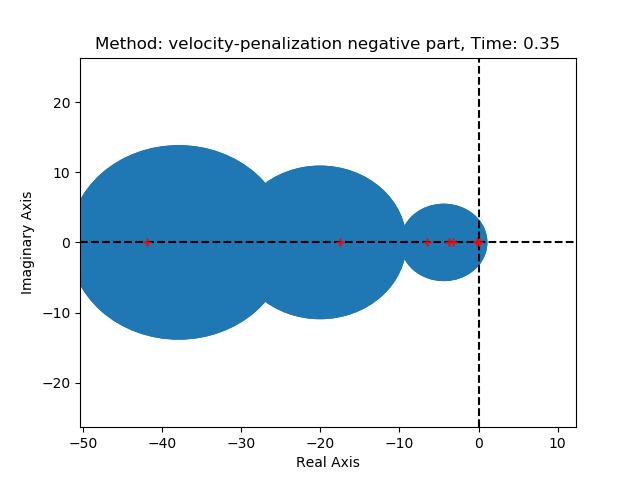
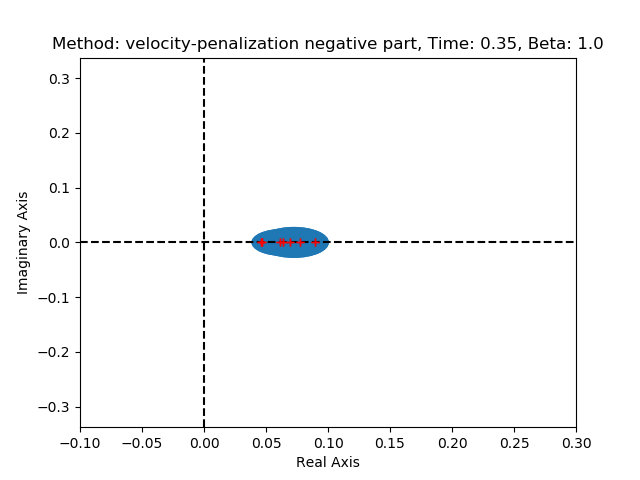
Adding further eigenvalue analysis

diff --git a/backflow_exp/nse.py b/backflow_exp/nse.py
@@ -1,10 +1,8 @@
 from dolfin import *
 import numpy as np
 import matplotlib.pyplot as plt
-from scipy.sparse.linalg import eigs
-from matplotlib.animation import FuncAnimation
-# from progressbar import ProgressBar
-import matplotlib.animation as animation
+import scipy as sp
+import scipy.sparse.linalg as ssl
 from numpy import linalg as LA
 from math import fabs
 import progress as prog
@@ -86,7 +84,7 @@ def GregsCircles(matrix):
         circles.append([piv,radius])
     return circles
 
-def plotCircles(circles, t, bfsm):
+def plotCircles(circles, t, bfsm, beta):
     fig, ax = plt.subplots()
     plt.title('Method: ' + bfsm + ', Time: ' + str(t))
     plt.xlabel('Real Axis')
@@ -94,14 +92,14 @@ def plotCircles(circles, t, bfsm):
     if circles == []:
         return fig
     index, radi = zip(*circles)
-    Xupper = max(index) + np.std(index)
-    Xlower = min(index) - np.std(index)
+    Xupper = 0.3#max(index) + np.std(index)
+    Xlower = -0.1#min(index) - np.std(index)
     Ylimit = max(radi) + np.std(index)
     ax = plt.gca()
     ax.cla()
     ax.set_xlim((Xlower,Xupper))
     ax.set_ylim((-Ylimit,Ylimit))
-    plt.title('Method: ' + bfsm + ', Time: ' + str(t))
+    plt.title('Method: ' + bfsm + ', Time: ' + str(t) + ', Beta: ' + str(beta))
     plt.xlabel('Real Axis')
     plt.ylabel('Imaginary Axis')
     for x in range(0,len(circles)):
@@ -179,13 +177,13 @@ def nse(Re=1000, temam=False, bfs=False, level=1, velocity_degree=2, eps=0.0002,
     if temam:
         F += 0.5 * rho * div(u0) * dot(u_, v) * dx
 
-    beta = Constant(1)  # TODO add an initial beta value, probably 1
+    beta = Constant(1) #TODO add an initial beta value, probably 1
 
-    backflow_func = 0.5 * rho * beta * abs_n(dot(u0, n)) * dot(u_, v) * ds(2)
-
-    testfunc = mu * inner(grad(u_), grad(v)) * dx - 0.5 * rho * beta * abs_n(dot(u0, n)) * dot(u_, v) * ds(2)
+    backflow_func = 0.5 * rho * abs_n(dot(u0, n)) * dot(u_, v) * ds(2) #0.5 * rho * abs_n(div(u0)) * dot(u_, v) * dx
 
 
+
+    G = 0
     ### Added here beta parameter to the stabilization terms which we can control
     if bfs == 1:
         stabmethod = 'velocity-penalization'
@@ -203,6 +201,8 @@ def nse(Re=1000, temam=False, bfs=False, level=1, velocity_degree=2, eps=0.0002,
         F -= G
     elif velocity_degree == 1 and float(eps):
         F += eps / mu * h ** 2 * inner(grad(p_), grad(q)) * dx
+
+    testfunc = laplace - backflow_func + G
 
     a = lhs(F)
     L = rhs(F)
@@ -260,7 +260,7 @@ def nse(Re=1000, temam=False, bfs=False, level=1, velocity_degree=2, eps=0.0002,
     pt = prog.progress_timer(description='Time Iterations', n_iter=40)
     # MAIN SOLVING LOOP
     for t in np.arange(dt, T + dt, dt):
-        print('t = {}'.format(round(t, 2)))
+        # print('t = {}'.format(round(t, 2)))
 
         #### May not be necessary ####
         w0.assign(w)
@@ -276,6 +276,7 @@ def nse(Re=1000, temam=False, bfs=False, level=1, velocity_degree=2, eps=0.0002,
         #### May not be necessary ####
 
         ###
+
 
         w1.assign(w)
         r1, s1 = w1.split()
@@ -338,9 +339,13 @@ def nse(Re=1000, temam=False, bfs=False, level=1, velocity_degree=2, eps=0.0002,
         # avgeig[(int)(t / dt) - 1] = np.mean(eigvals)
 
         ## Finding backflow region of Matrix
-        lap = assemble(lhs(testfunc))
-
+        lap = assemble(lhs(laplace))#testfunc))
+        lap2 = lap
+        for bc in bcs: bc.apply(lap)
+        print(LA.norm((np.array(lap.array()) - np.array(lap2.array()))))
         lapmat = np.array(lap.array())
+        lapmat2 = sp.sparse.bsr_matrix(lap.array())
+        # print("Finding Backflow region")
         backflow_mat = assemble(lhs(backflow_func))
         backflow_vec = np.array(backflow_mat.array())
         reduced_laplace = lapmat*(backflow_vec != 0)
@@ -349,16 +354,20 @@ def nse(Re=1000, temam=False, bfs=False, level=1, velocity_degree=2, eps=0.0002,
 
         # anitemp.append(laplace_backflow_final)
         # fig = gershgorinplotter(laplace_backflow_final, round(t, 2), stabmethod)
+        # print("Making Circles: " + str(len(laplace_backflow_final)))
         circles = GregsCircles(laplace_backflow_final)
-        fig = plotCircles(circles, round(t, 2), stabmethod)
-        eigenvals, eigenvecs = np.linalg.eig(laplace_backflow_final)
+        fig = plotCircles(circles, round(t, 2), stabmethod, assemble(beta*ds(2)))
+        # print("Finding Eigenvalues")
+        smalleig = ssl.eigs(lapmat2, 5, sigma=1e-6, which='LM', return_eigenvectors=False)
+        print(smalleig)
+        eigenvals = LA.eigvals(laplace_backflow_final)
         for eigval in eigenvals:
             plt.plot(eigval.real, eigval.imag, 'r+')
         fig.savefig('circles/' + str(round(t*100)) + 'gersh.png')
         plt.close(fig)
-        del lap, lapmat, backflow_mat, backflow_vec, reduced_laplace, laplace_backflow, laplace_backflow_final, eigenvals, eigenvecs
+        print(eigenvals)
+        del lap, lapmat, backflow_mat, backflow_vec, reduced_laplace, laplace_backflow, laplace_backflow_final, eigenvals
         # eigvals, eigvec = LA.eig(laplace_backflow_final)
-        # print(eigvals)
 
         ##Gershgorin stuff:
 

diff --git a/backflow_exp/gifmaker.py b/backflow_exp/gifmaker.py
@@ -2,6 +2,6 @@ import imageio
 
 
 images = []
-for t in range(40):
+for t in range(25, 40, 1):
     images.append(imageio.imread('circles/' + str(t+1) + '.0gersh.png'))
 imageio.mimsave('circles/circles.gif', images, duration=1)
